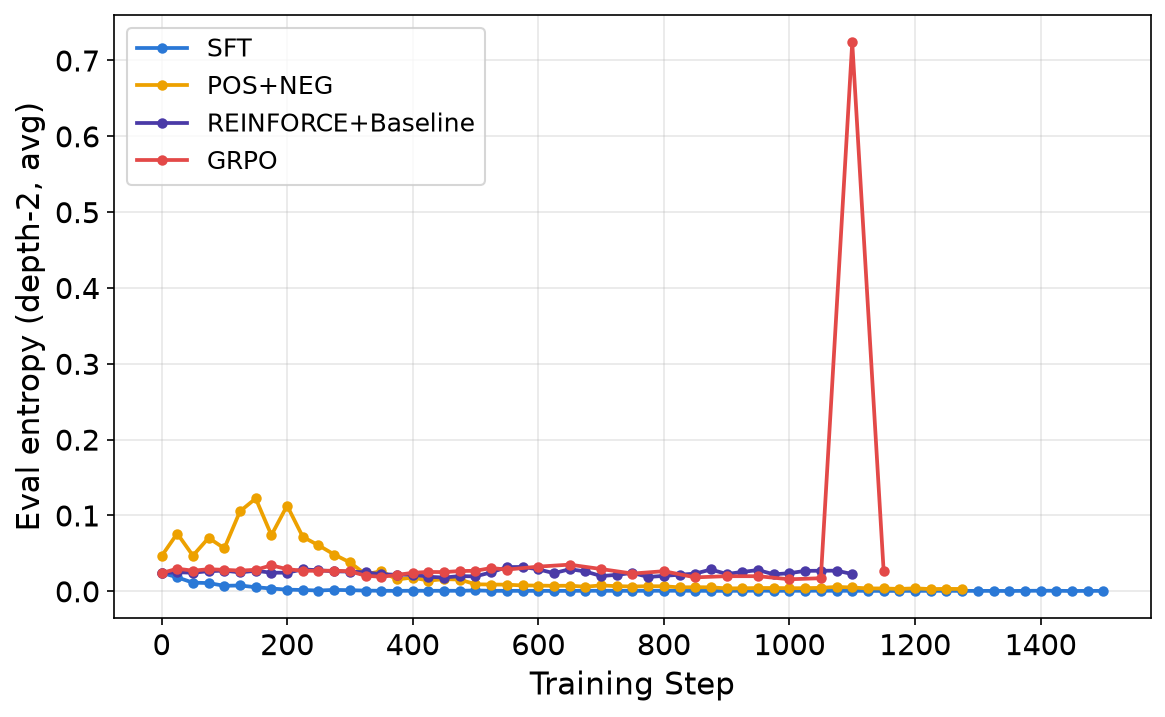
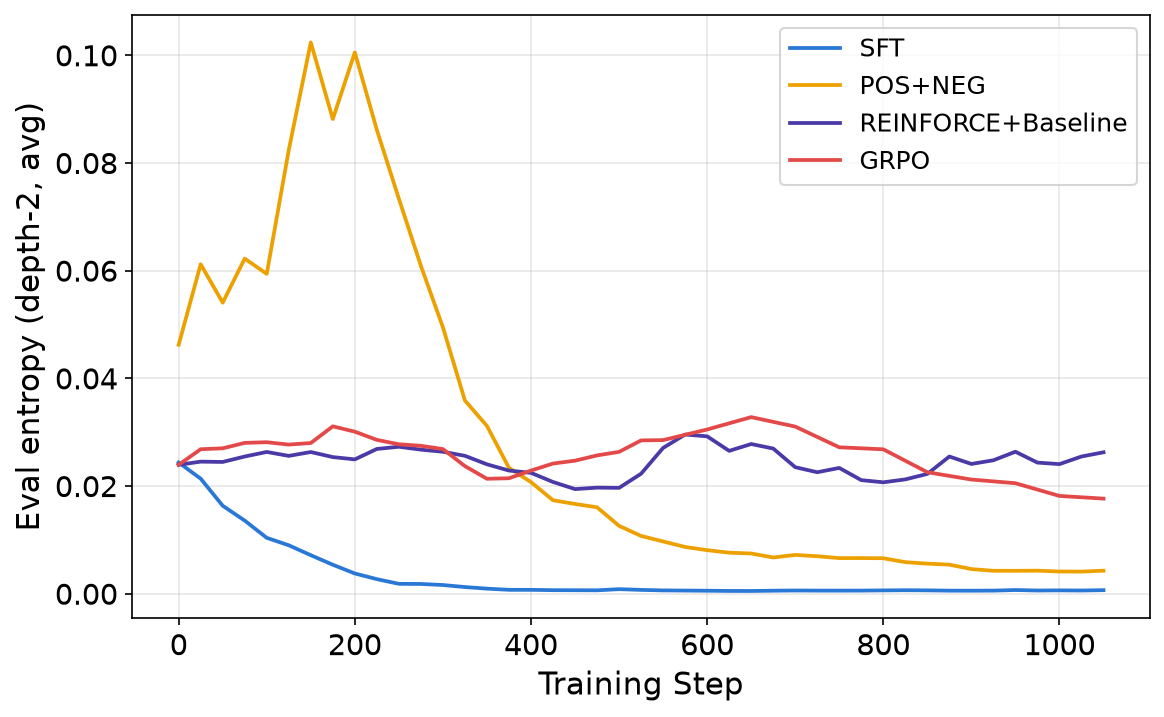
Add math-task on-policy entropy data/plots and refine training-dynamics figures
Fetch on-policy math-task entropy chains (easy/medium/hard), align
response-length lines at a common cutoff, drop the isolated GRPO entropy
spike, and simplify the grad-norm collapse figure.

diff --git a/scripts/analysis/plot_training_dynamics.py b/scripts/analysis/plot_training_dynamics.py
@@ -112,13 +112,24 @@ def generalization_zone_figure():
 
 def response_length_figure():
     methods = ["SFT", "POS+NEG", "REINFORCE+Baseline", "GRPO"]
-    fig, ax = plt.subplots(figsize=(8, 5))
+    series = {}
     for method in methods:
         path = RESULTS_DIR / f"string_task_onpolicy_{method.replace('+', '')}_dense.csv"
         rows = read_csv(path)
         len_steps = [int(r["_step"]) for r in rows if r["rollout/avg_response_length"]]
         lens = [float(r["rollout/avg_response_length"]) for r in rows if r["rollout/avg_response_length"]]
-        ax.plot(len_steps, smooth(lens, 0.95), linewidth=1.8, label=method, color=COLOR[method])
+        series[method] = (len_steps, lens)
+
+    # Runs are resumed chains of different total length (see fetch script); cut every
+    # line at the shortest run's last step so no method appears to end early relative
+    # to the others.
+    cutoff = min(steps[-1] for steps, _ in series.values() if steps)
+
+    fig, ax = plt.subplots(figsize=(8, 5))
+    for method in methods:
+        len_steps, lens = series[method]
+        len_steps, lens = zip(*[(s, v) for s, v in zip(len_steps, lens) if s <= cutoff])
+        ax.plot(len_steps, smooth(list(lens), 0.95), linewidth=1.8, label=method, color=COLOR[method])
     ax.set_xlabel("Training Step")
     ax.set_ylabel("Avg response length (tokens)")
     ax.grid(True, alpha=0.3)
@@ -128,15 +139,21 @@ def response_length_figure():
 
 
 def entropy_figure():
+    # GRPO has an isolated, single-checkpoint entropy spike at step 1100 (0.72 vs a
+    # ~0.02-0.03 baseline) that math-task entropy does not reproduce at the analogous
+    # point in any of its 4 runs -- treated as noise from that one eval snapshot, not a
+    # real training-dynamics finding. Cut at step 1050 (last clean point) for all
+    # methods so the spike is excluded and all lines end at a common step.
     methods = ["SFT", "POS+NEG", "REINFORCE+Baseline", "GRPO"]
+    key = "val/16-codeio-forward-incomplete-depth2/entropy/avg"
+    cutoff = 1050
     fig, ax = plt.subplots(figsize=(8, 5))
     for method in methods:
         path = RESULTS_DIR / f"string_task_onpolicy_{method.replace('+', '')}_entropy.csv"
         rows = read_csv(path)
-        key = "val/16-codeio-forward-incomplete-depth2/entropy/avg"
-        steps = [int(r["_step"]) for r in rows if r[key]]
-        vals = [float(r[key]) for r in rows if r[key]]
-        ax.plot(steps, vals, marker="o", markersize=4, linewidth=1.8, label=method, color=COLOR[method])
+        steps = [int(r["_step"]) for r in rows if r[key] and int(r["_step"]) <= cutoff]
+        vals = [float(r[key]) for r in rows if r[key] and int(r["_step"]) <= cutoff]
+        ax.plot(steps, smooth(vals, 0.5), linewidth=1.8, label=method, color=COLOR[method])
     ax.set_xlabel("Training Step")
     ax.set_ylabel("Eval entropy (depth-2, avg)")
     ax.grid(True, alpha=0.3)
@@ -164,33 +181,47 @@ def grad_norm_figure():
 
 
 def grad_norm_collapse_figure():
+    import numpy as np
+
     onpolicy_methods = ["SFT", "POS+NEG", "REINFORCE+Baseline", "GRPO"]
-    offpolicy_runs = {
-        "Bootstrap-GRPO": ("string_task_offpolicy_Bootstrap_GRPO_gradnorm.csv", COLOR["Bootstrap"], "-"),
-        "Bootstrap-REINFORCE+Baseline": ("string_task_offpolicy_Bootstrap_REINFORCEBaseline_gradnorm.csv", COLOR["Bootstrap"], "--"),
-        "Teacher-GRPO": ("string_task_offpolicy_Teacher_GRPO_gradnorm.csv", COLOR["Teacher"], "-"),
-        "Teacher-REINFORCE+Baseline": ("string_task_offpolicy_Teacher_REINFORCEBaseline_gradnorm.csv", COLOR["Teacher"], "--"),
-    }
-    fig, ax = plt.subplots(figsize=(9, 5.5))
+    offpolicy_files = [
+        "string_task_offpolicy_Bootstrap_GRPO_gradnorm.csv",
+        "string_task_offpolicy_Bootstrap_REINFORCEBaseline_gradnorm.csv",
+        "string_task_offpolicy_Teacher_GRPO_gradnorm.csv",
+        "string_task_offpolicy_Teacher_REINFORCEBaseline_gradnorm.csv",
+    ]
+
+    onpolicy_vals = []
     for method in onpolicy_methods:
         path = RESULTS_DIR / f"string_task_onpolicy_{method.replace('+', '')}_dense.csv"
         rows = read_csv(path)
-        steps = [int(r["_step"]) for r in rows if r["actor/grad_norm"]]
-        vals = [float(r["actor/grad_norm"]) for r in rows if r["actor/grad_norm"]]
-        ax.plot(steps, vals, linewidth=1.0, alpha=0.6, color=COLOR["On-policy"])
-    ax.plot([], [], linewidth=1.5, color=COLOR["On-policy"], label="On-policy (all losses)")
+        onpolicy_vals += [float(r["actor/grad_norm"]) for r in rows if r["actor/grad_norm"]]
 
-    for label, (fname, color, style) in offpolicy_runs.items():
+    offpolicy_vals = []
+    for fname in offpolicy_files:
         rows = read_csv(RESULTS_DIR / fname)
-        steps = [int(r["_step"]) for r in rows if r["actor/grad_norm"]]
-        vals = [float(r["actor/grad_norm"]) for r in rows if r["actor/grad_norm"]]
-        ax.plot(steps, vals, linewidth=1.8, linestyle=style, color=color, label=label)
+        offpolicy_vals += [float(r["actor/grad_norm"]) for r in rows if r["actor/grad_norm"]]
 
-    ax.set_yscale("log")
-    ax.set_xlabel("Training Step")
-    ax.set_ylabel("Gradient norm (log scale)")
+    all_vals = onpolicy_vals + offpolicy_vals
+    bins = np.logspace(np.log10(min(all_vals)), np.log10(max(all_vals)), 40)
+
+    # density=True divides by linear bin width, which on log-spaced bins makes
+    # the (real, populous) high-value tail bins look artificially tiny. Use
+    # per-group sample-fraction weights instead so heights are directly
+    # comparable and not distorted by bin width.
+    onpolicy_weights = np.ones(len(onpolicy_vals)) / len(onpolicy_vals)
+    offpolicy_weights = np.ones(len(offpolicy_vals)) / len(offpolicy_vals)
+
+    fig, ax = plt.subplots(figsize=(8, 5))
+    ax.hist(onpolicy_vals, bins=bins, weights=onpolicy_weights, color=COLOR["On-policy"], alpha=0.6,
+            label="On-policy (all losses)")
+    ax.hist(offpolicy_vals, bins=bins, weights=offpolicy_weights, color=COLOR["Teacher"], alpha=0.6,
+            label="Off-policy (collapsed runs)")
+    ax.set_xscale("log")
+    ax.set_xlabel("Gradient norm (log scale)")
+    ax.set_ylabel("Fraction of samples")
     ax.grid(True, alpha=0.3, which="both")
-    ax.legend(loc="lower right", fontsize=BASE_FONT_SIZE - 4)
+    ax.legend(fontsize=BASE_FONT_SIZE - 4)
     fig.tight_layout()
     save(fig, "grad_norm_collapse.png")
 
@@ -217,12 +248,37 @@ def math_bootstrap_sft_figure():
     save(fig, "math_bootstrap_sft_pass1.png")
 
 
+def math_entropy_figure():
+    methods = ["SFT", "POS+NEG", "REINFORCE+Baseline", "GRPO"]
+    file_suffix = {"SFT": "SFT", "POS+NEG": "PosNeg", "REINFORCE+Baseline": "ReinforceBaseline", "GRPO": "GRPO"}
+    splits = {
+        "easy": "val/16-math-easy/entropy/avg",
+        "medium": "val/16-math-medium/entropy/avg",
+        "hard": "val/16-math-hard/entropy/avg",
+    }
+    for split, key in splits.items():
+        fig, ax = plt.subplots(figsize=(8, 5))
+        for method in methods:
+            path = RESULTS_DIR / f"math_onpolicy_{file_suffix[method]}_entropy.csv"
+            rows = read_csv(path)
+            steps = [int(r["_step"]) for r in rows if r[key]]
+            vals = [float(r[key]) for r in rows if r[key]]
+            ax.plot(steps, smooth(vals, 0.5), linewidth=1.8, label=method, color=COLOR[method])
+        ax.set_xlabel("Training Step")
+        ax.set_ylabel(f"Eval entropy ({split}, avg)")
+        ax.grid(True, alpha=0.3)
+        ax.legend()
+        fig.tight_layout()
+        save(fig, f"math_entropy_{split}.png")
+
+
 def main():
     configure_plot_style()
     mimic_zone_figure()
     generalization_zone_figure()
     response_length_figure()
     entropy_figure()
+    math_entropy_figure()
     grad_norm_figure()
     grad_norm_collapse_figure()
     math_bootstrap_sft_figure()

diff --git a/scripts/analysis/fetch_wandb_training_dynamics.py b/scripts/analysis/fetch_wandb_training_dynamics.py
@@ -49,6 +49,22 @@ MATH_BOOTSTRAP_SFT_RUN = "297gy4rz"
 
 ENTROPY_KEY = "val/16-codeio-forward-incomplete-depth2/entropy/avg"
 
+# On-policy math-task runs are also resumed chains (same cluster-preemption pattern
+# as string-task); earlier id first.
+MATH_TASK_ONPOLICY_CHAINS = {
+    "GRPO": ["7yqjetyk", "2zpizahh"],
+    "PosNeg": ["z3qmq1df", "en0qvey1", "cfhvlll4"],
+    "SFT": ["xjx8xkjg", "fnpd7ype"],
+    "ReinforceBaseline": ["ztfye15q"],
+}
+
+MATH_ENTROPY_KEYS = [
+    "_step",
+    "val/16-math-easy/entropy/avg",
+    "val/16-math-medium/entropy/avg",
+    "val/16-math-hard/entropy/avg",
+]
+
 
 def gql(query: str, variables: dict) -> dict:
     req = urllib.request.Request(
@@ -118,6 +134,11 @@ def main():
     ]
     rows = fetch_history(entity, "math-task", MATH_BOOTSTRAP_SFT_RUN, math_keys, samples=3000)
     write_csv(RESULTS_DIR / "math_bootstrap_sft_easy_pass1.csv", rows, math_keys)
+
+    # 5. On-policy math-task entropy (easy/medium/hard splits)
+    for method, chain in MATH_TASK_ONPOLICY_CHAINS.items():
+        rows = fetch_chain(entity, "math-task", chain, MATH_ENTROPY_KEYS)
+        write_csv(RESULTS_DIR / f"math_onpolicy_{method}_entropy.csv", rows, MATH_ENTROPY_KEYS)
 
 
 if __name__ == "__main__":
